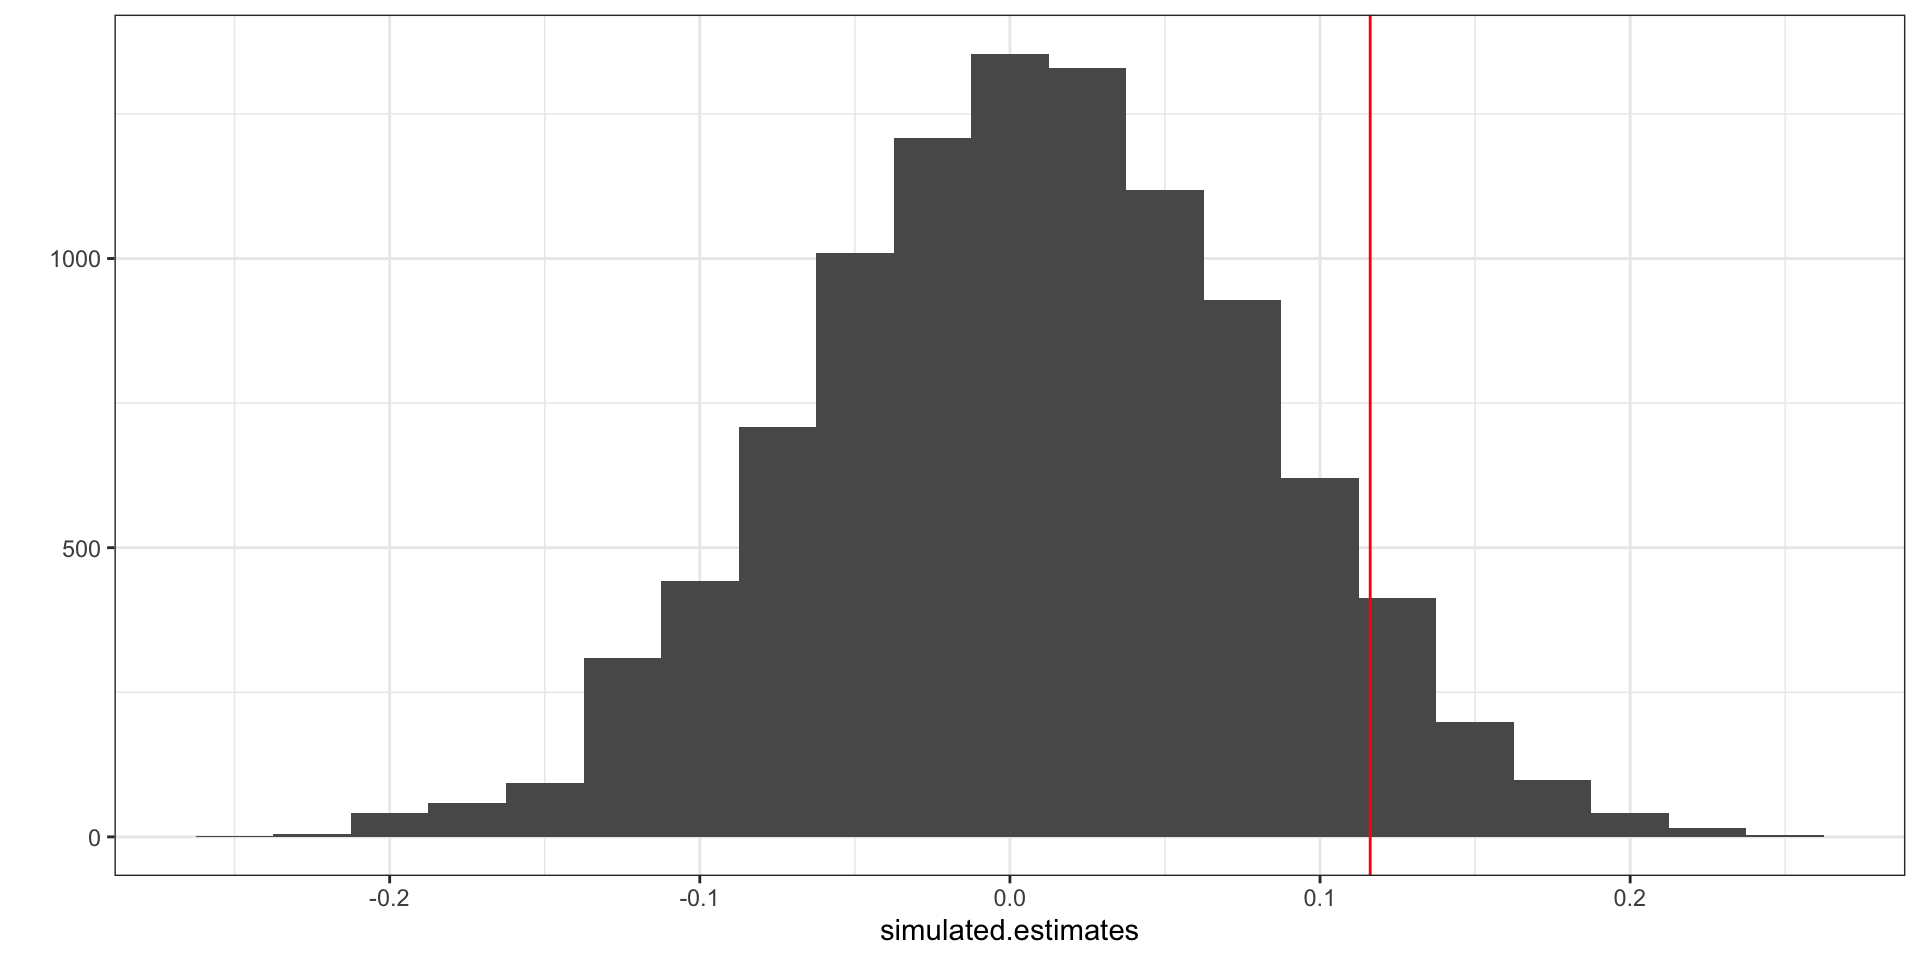
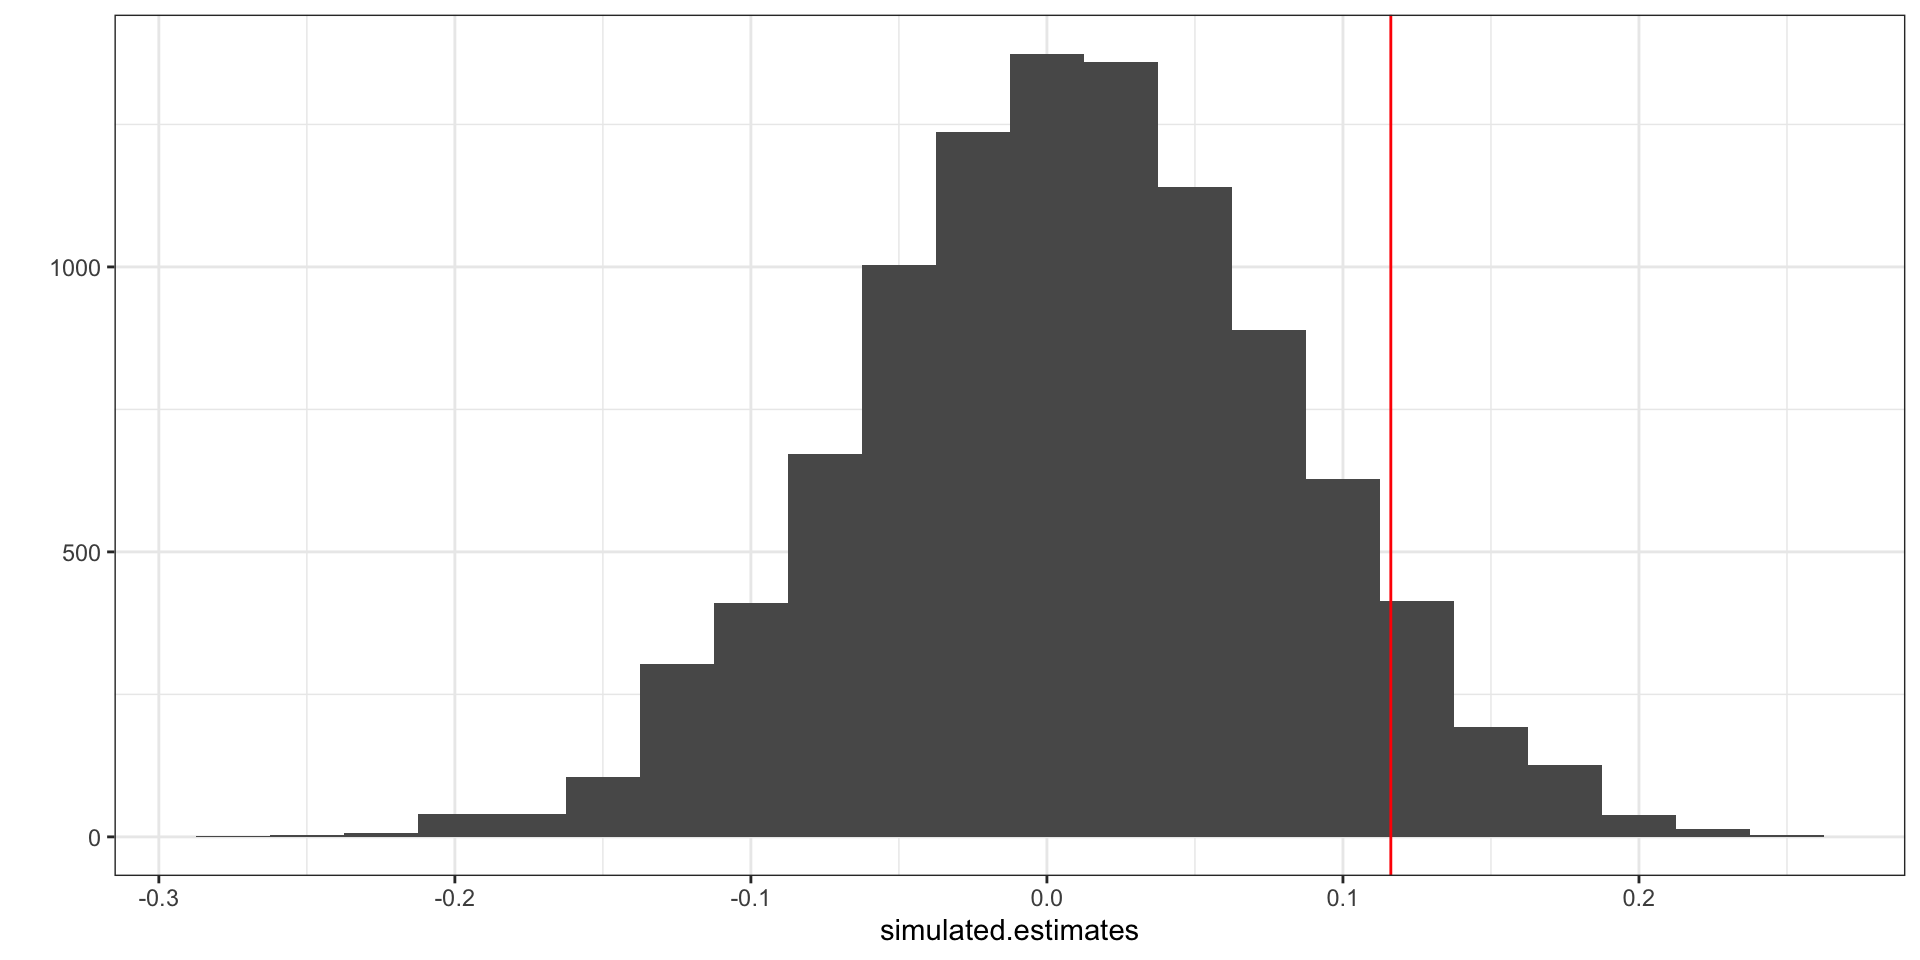
Week 8 lecture slide fixes

diff --git a/Lectures/week8/week8lecture2.html b/Lectures/week8/week8lecture2.html
@@ -157,7 +157,6 @@
 <li class="fragment">Scientists are often arguing that something is true</li>
 <li class="fragment">To do this, we have to persuade skeptics</li>
 <li class="fragment">Skeptics start out believing we are wrong. This is the <strong>null hypothesis.</strong></li>
-<li class="fragment">Today, Sarah personifies the character of the skeptic</li>
 </ul>
 </div></div>
 </section>
@@ -175,7 +174,7 @@
 <ul>
 <li class="fragment"><strong>Null hypothesis:</strong> the coin is equally likely to come up heads or tails
 <ul>
-<li class="fragment">(what Sarah the skeptic things and you want to show is wrong)</li>
+<li class="fragment">(what Sarah the skeptic thinks and you want to show is wrong)</li>
 </ul></li>
 <li class="fragment"><strong>Alternative hypothesis:</strong> the coin is more likely to come up heads than tails
 <ul>
@@ -240,7 +239,7 @@ eyJhdHRyIjp7ImVkaXQiOnRydWUsImV2YWwiOnRydWV9LCJjb2RlIjoic3VtKGZsaXAuc29tZS5jb2lu
 
 </div>
 <script type="webr-4-contents">
[2 lines of base64/hex data omitted]
 </script>
 </div>
 </div>
@@ -260,7 +259,7 @@ eyJhdHRyIjp7ImVkaXQiOnRydWUsImV2YWwiOnRydWV9LCJjb2RlIjoibWVhbihmbGlwLnJlc3VsdHMu
 <ul>
 <li class="fragment">About 17% of times you flip a fair coin 10 times, you’d expect to see 7 or more heads</li>
 <li class="fragment">So Sarah has a pretty good point!</li>
-<li class="fragment">This is a <strong><span class="math inline">\(p\)</span>-value:</strong> the probability that we would see an answer as or more extreme than the answer we saw <em>even if the null hypothesis was true.</em></li>
+<li class="fragment">This is a <strong><span class="math inline">\(p\)</span>-value:</strong> the probability that we would see an answer as or more extreme than the answer we saw <em>if the null hypothesis was true.</em></li>
 </ul>
 </section>
 <section id="what-this-means-visually" class="slide level2">
@@ -286,7 +285,7 @@ eyJhdHRyIjp7ImVkaXQiOnRydWUsImV2YWwiOnRydWV9LCJjb2RlIjoicXBsb3QoZmxpcC5yZXN1bHRz
 <ul>
 <li class="fragment"><span class="math inline">\(p\)</span>-values might seem like just a way for skeptics like Sarah to show that the evidence is ambiguous and there’s a chance the null hypothesis is right</li>
 <li class="fragment">But in science, we often argue that the null hypothesis should be <strong>rejected</strong> — that Sarah should accept that she is wrong</li>
-<li class="fragment">Say you saw 9 flips out of 10 come up heads</li>
+<li class="fragment">Say you saw 9 flips out of 10 come up heads:</li>
 </ul>
 <div class="cell">
 <div>
@@ -332,14 +331,14 @@ eyJhdHRyIjp7ImVkaXQiOnRydWUsImV2YWwiOnRydWV9LCJjb2RlIjoibWVhbihmbGlwLnJlc3VsdHMu
 <h2>Why not just calculate the probability we are right?</h2>
 <ul>
 <li class="fragment">Remember, we just calculated <em>the probability we would see what we saw if Sarah were right.</em></li>
-<li class="fragment">Why not just calculate <em>the probabilty we are right?</em></li>
+<li class="fragment">Why not just calculate <em>the probability</em> <strong>we</strong> <em>are right?</em></li>
 <li class="fragment">This turns out to be impossible!</li>
 </ul>
 </section>
 <section class="slide level2">
 
 
-<img data-src="frequentists_vs_bayesians_2x.png" class="r-stretch"></section>
+<img data-src="frequentists_vs_bayesians_2x.png" class="quarto-figure quarto-figure-center r-stretch"></section>
 <section id="this-sets-up-an-awkward-situation" class="slide level2">
 <h2>This sets up an awkward situation</h2>
 <ul>
@@ -367,7 +366,7 @@ eyJhdHRyIjp7ImVkaXQiOnRydWUsImV2YWwiOnRydWV9LCJjb2RlIjoibWVhbihmbGlwLnJlc3VsdHMu
 <h2>What <span class="math inline">\(p\)</span>-values <em>actually</em> mean</h2>
 <ul>
 <li class="fragment">A <span class="math inline">\(p\)</span>-value is the probability of seeing an estimate as large or larger than the estimate we saw <em>if the null hypothesis were true.</em></li>
-<li class="fragment">Another way of thinking about this: if we repeated a study many times, what percent of the time would we get an estimate as extreme as we did <em>if the null hypothesis were true.</em></li>
+<li class="fragment">Another way of thinking about this: if we repeated a study many times, what percent of the time would we get an estimate as extreme as we did <em>if the null hypothesis were true?</em></li>
 <li class="fragment"><em>e.g.,</em> 20 groups in a large class study whether eating jelly beans causes acne (it doesn’t, thank goodness)
 <ul>
 <li class="fragment">We should <em>expect</em> 1/20 groups to get a p-value less than 0.05 by chance!</li>

diff --git a/Lectures/week8/week8lecture1.html b/Lectures/week8/week8lecture1.html
@@ -201,10 +201,14 @@ eyJhdHRyIjp7ImVkaXQiOnRydWUsImV2YWwiOnRydWV9LCJjb2RlIjoic3VwcHJlc3NNZXNzYWdlcyhs
 <section id="how-much-noise-does-my-experiment-have" class="slide level2">
 <h2>How much noise does my experiment have?</h2>
 <div class="columns">
-<div class="column" style="width:50%;">
+<div class="column" style="width:25%;">
+
+</div><div class="column" style="width:25%;">
 <p><img data-src="lowbias_highnoise.png"></p>
-</div><div class="column" style="width:50%;">
+</div><div class="column" style="width:25%;">
 <p><img data-src="lowbias_lownoise.png"></p>
+</div><div class="column" style="width:25%;">
+
 </div></div>
 <p><strong>Standard error:</strong> A measure of how far off from the truth an experiment’s answer usually is.</p>
 </section>
@@ -278,7 +282,7 @@ eyJhdHRyIjp7ImVkaXQiOnRydWUsImV2YWwiOnRydWV9LCJjb2RlIjoic3VwcHJlc3NNZXNzYWdlcyhs
 
 </div>
 <script type="webr-2-contents">
[2 lines of base64/hex data omitted]
 </script>
 </div>
 </div>
@@ -338,19 +342,14 @@ eyJhdHRyIjp7ImVkaXQiOnRydWUsImV2YWwiOnRydWV9LCJjb2RlIjoiY29tcHV0ZS5vZmZpY2UubG9i
 
 </div>
 <script type="webr-6-contents">
[2 lines of base64/hex data omitted]
 </script>
 </div>
 </div>
 </section>
 <section id="the-standard-error-describes-the-spread-of-this-distribution." class="slide level2">
 <h2>The <em>standard error</em> describes the spread of this distribution.</h2>
-<div class="cell">
-<div class="cell-output cell-output-stdout">
-<pre><code>[1]  0.09178434  0.01668806  0.01668806 -0.11103979  0.09178434  0.06931964</code></pre>
-</div>
 
-</div>
 <img data-src="week8lecture1_files/figure-revealjs/unnamed-chunk-9-1.png" width="960" class="r-stretch"></section>
 <section id="good-news-difference_in_means-calculates-it-for-you" class="slide level2">
 <h2>Good news: <code>difference_in_means()</code> calculates it for you!</h2>
@@ -387,7 +386,7 @@ eyJhdHRyIjp7ImVkaXQiOnRydWUsImV2YWwiOnRydWV9LCJjb2RlIjoiZGlmZmVyZW5jZV9pbl9tZWFu
 </ul></li>
 </ul>
 </section>
-<section id="reviewing-new-terms-and-concepts" class="slide level2">
+<section id="reviewing-new-terms-and-concepts" class="slide level2 smaller">
 <h2>Reviewing new terms and concepts</h2>
 <ul>
 <li class="fragment"><strong>True average treatment effect:</strong> the actual truth about what the causal effect of a treatment is, which would require us to see all the potential outcomes to calculate</li>
